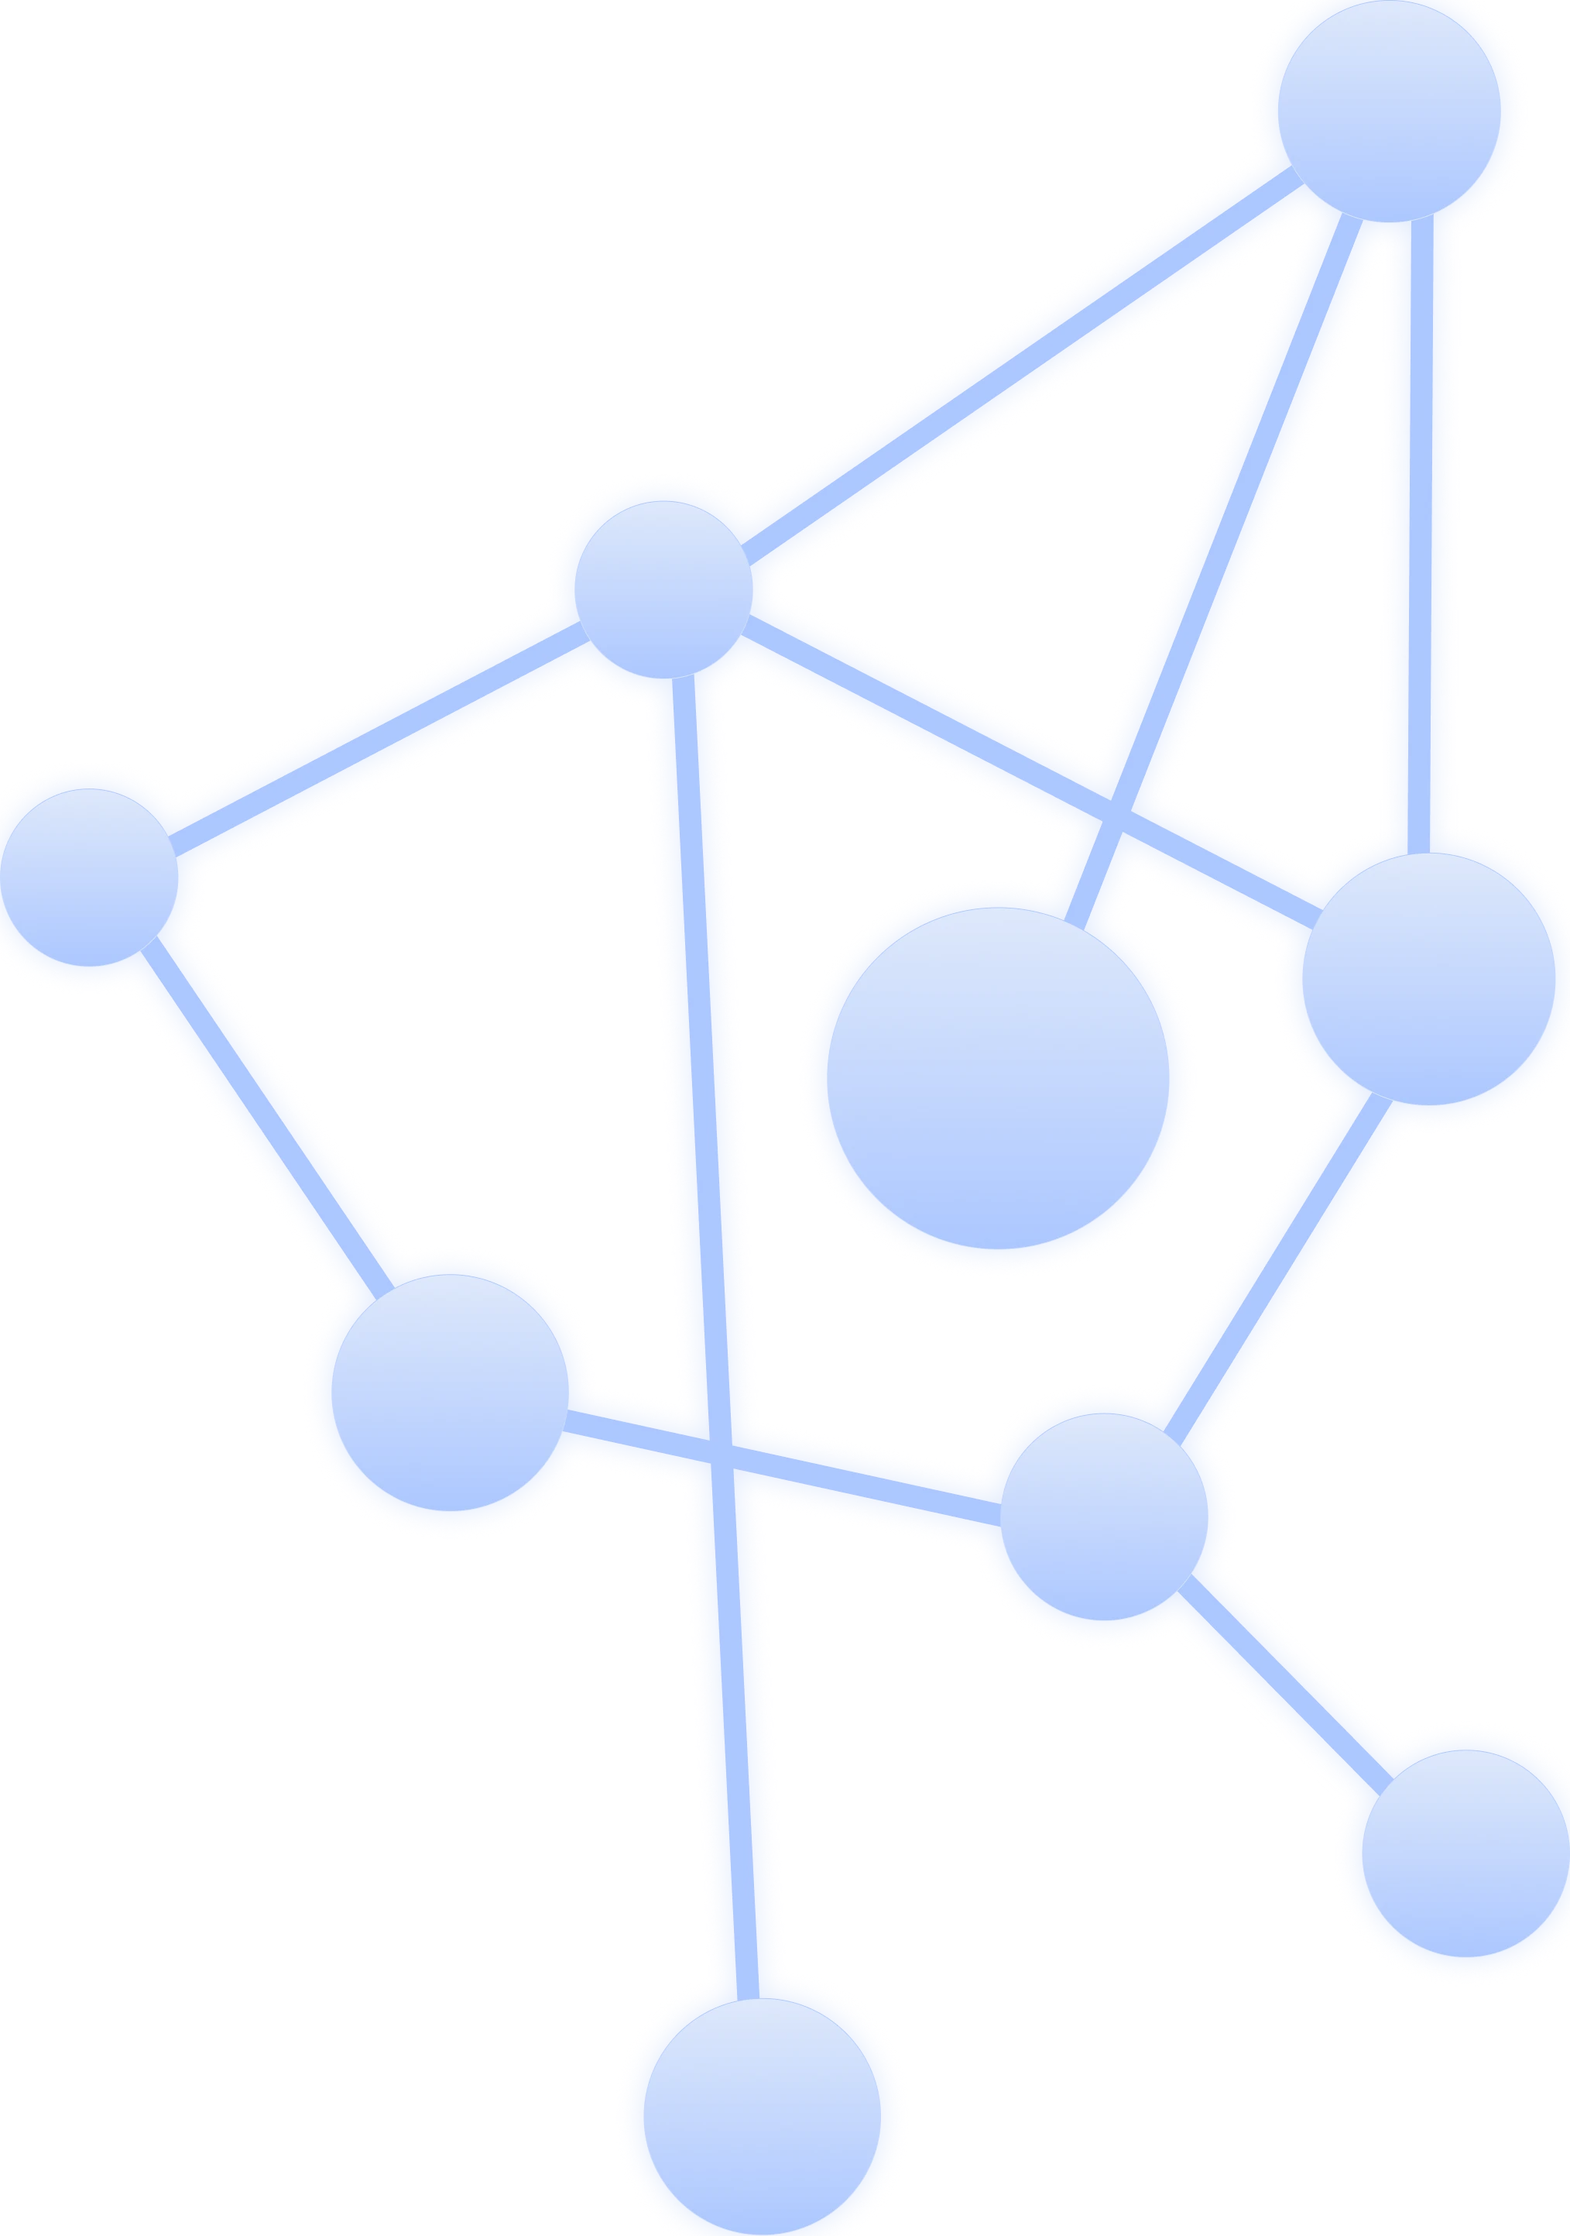
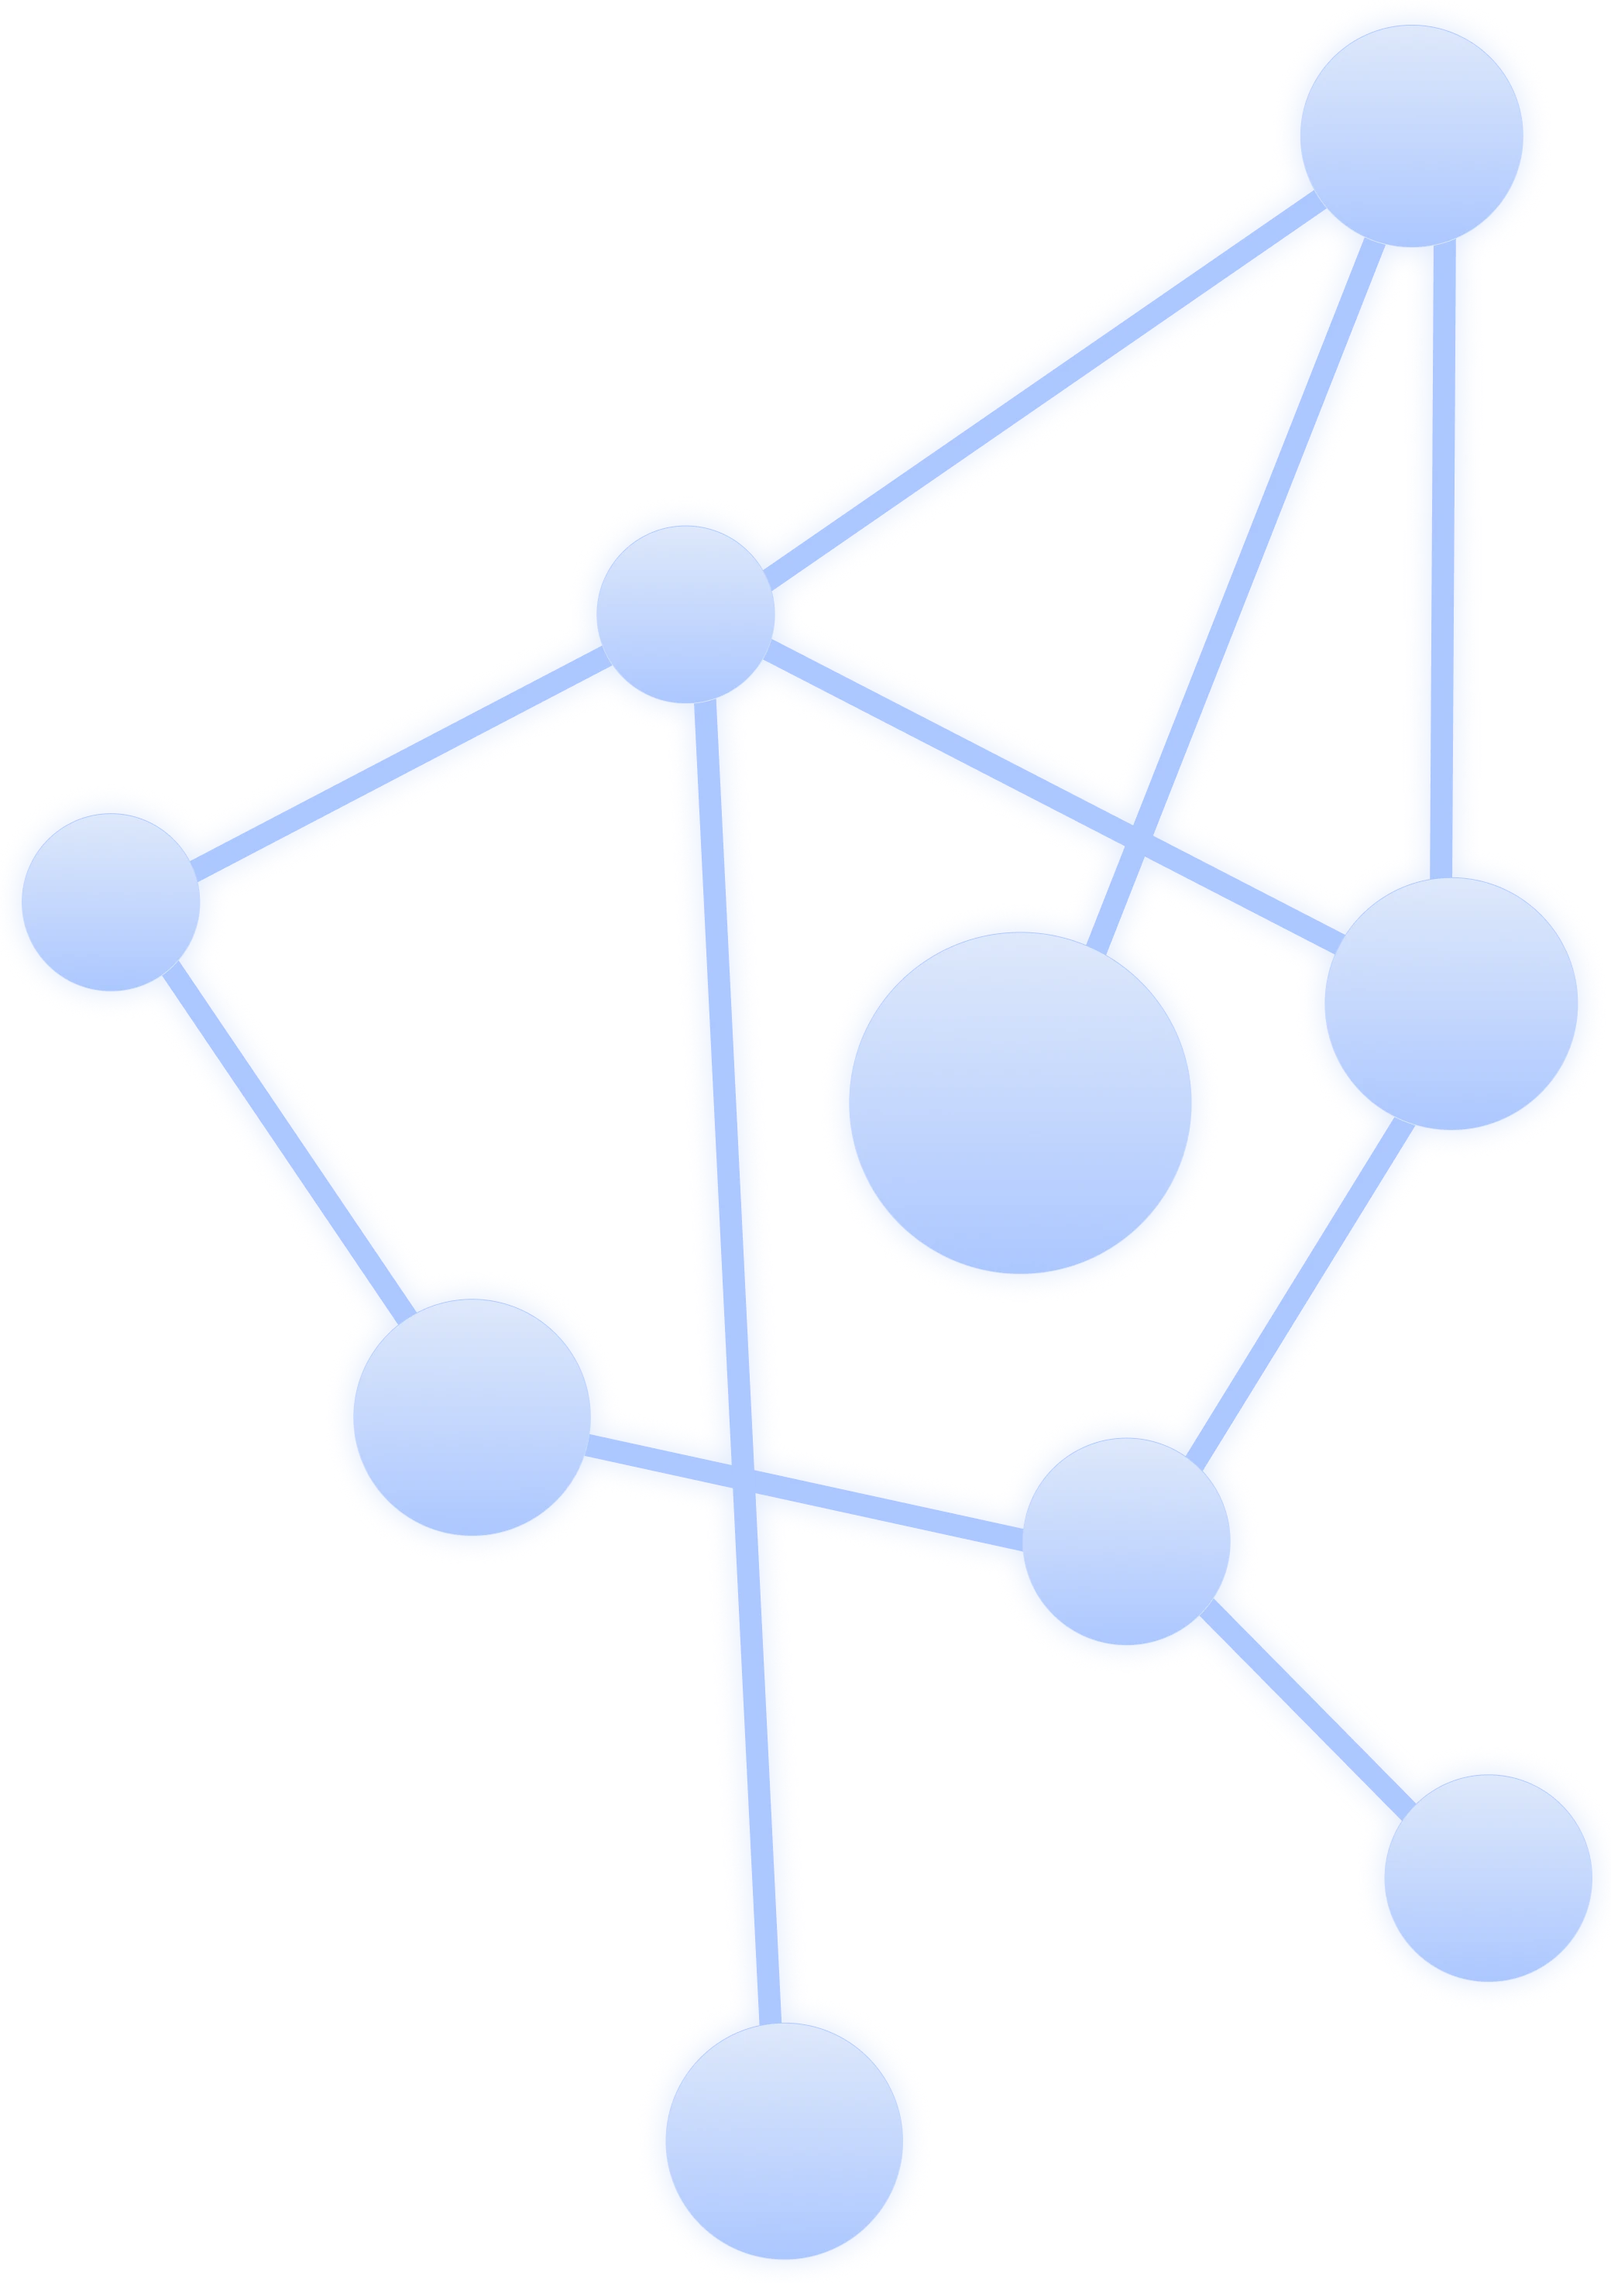
feat: add mobile navbar panel, style: some animation and illustrations

diff --git a/src/shared/components/Navbar/NavbarHifi/NavbarHifi.module.css b/src/shared/components/Navbar/NavbarHifi/NavbarHifi.module.css
@@ -178,7 +178,7 @@
   font-size: 1.15rem;
   font-weight: 500;
   color: #FFFFFF;
-  padding: 6px 4px;
+  padding: 6px 4px 6px 14px;
   transition: opacity 0.2s ease;
 }
 
@@ -188,26 +188,24 @@
 
 .mobileMenuDivider {
   height: 1px;
-  margin: 0 4px;
+  margin: 0;
   background: rgba(222, 232, 251, 0.6);
 }
 
 .mobileMenuAuth {
   display: flex;
   flex-direction: column;
-  align-items: center;
+  align-items: stretch;
   gap: 14px;
 }
 
-/* Tombol utama menu mobile — aset yang sama dengan .signUpBtn, tapi
-   direntangkan selebar panel sesuai desain. */
 .mobilePrimaryBtn {
-  display: inline-flex;
+  display: flex;
   align-items: center;
   justify-content: center;
   width: 100%;
-  height: 52px;
-  background-image: url('/images/buttons/signupbutton-default.svg');
+  aspect-ratio: 136 / 40;
+  background-image: url('/images/buttons/loginmobilebutton-default.svg');
   background-size: 100% 100%;
   background-repeat: no-repeat;
   border: none;
@@ -219,11 +217,11 @@
 }
 
 .mobilePrimaryBtn:hover {
-  background-image: url('/images/buttons/signupbutton-hover.svg');
+  background-image: url('/images/buttons/loginmobilebutton-hover.svg');
 }
 
 .mobilePrimaryBtn:active {
-  background-image: url('/images/buttons/signupbutton-click.svg');
+  background-image: url('/images/buttons/loginmobilebutton-click.svg');
   color: #E9E9E9;
 }
 
@@ -232,6 +230,7 @@
   font-size: 1.05rem;
   font-weight: 500;
   color: #DEE8FB;
+  text-align: center;
   background: none;
   border: none;
   padding: 4px;

diff --git a/src/features/landing/components/StatsSectionHifi/StatsSectionHifi.tsx b/src/features/landing/components/StatsSectionHifi/StatsSectionHifi.tsx
@@ -54,10 +54,10 @@ export default function StatsSectionHifi() {
   // Scale: 3 → 1
   const scale = 3 - animProgress * 2
 
-  // Rotate: -22.41 → 0
   const rotate = -22.41 + animProgress * 22.41
 
-  // Text fade in setelah animasi hampir selesai
+  const illustrationOpacity = Math.min(1, animProgress / 1)
+
   const textOpacity = Math.min(1, Math.max(0, (animProgress - 0.85) / 0.15))
 
   return (
@@ -67,6 +67,7 @@ export default function StatsSectionHifi() {
           className={styles.illustrationContainer}
           style={{
             transform: `scale(${scale}) rotate(${rotate}deg)`,
+            opacity: illustrationOpacity,
           }}
         >
           <Image

diff --git a/src/features/landing/components/AboutSectionHifi/AboutSectionHifi.tsx b/src/features/landing/components/AboutSectionHifi/AboutSectionHifi.tsx
@@ -90,8 +90,9 @@ export default function AboutSectionHifi() {
             <Image
               src="/images/about-illustration.webp"
               alt="ITB Insight Illustration"
-              width={600}
-              height={600}
+              width={2080}
+              height={2948}
+              sizes="560px"
               className={styles.illustration}
               style={{
                 opacity: illustrationOpacity,

diff --git a/src/features/landing/components/StatsSectionHifi/StatsSectionHifi.module.css b/src/features/landing/components/StatsSectionHifi/StatsSectionHifi.module.css
@@ -20,7 +20,7 @@
   position: absolute;
   inset: 0;
   transform-origin: center center;
-  will-change: transform;
+  will-change: transform, opacity;
 }
 
 .illustration {

diff --git a/src/features/landing/components/MediaPartnersSectionHifi/MediaPartnersSectionHifi.module.css b/src/features/landing/components/MediaPartnersSectionHifi/MediaPartnersSectionHifi.module.css
@@ -1,5 +1,5 @@
 .section {
-  min-height: 100vh;
+  min-height: 400px;
   padding: 80px 0;
   display: flex;
   flex-direction: column;
